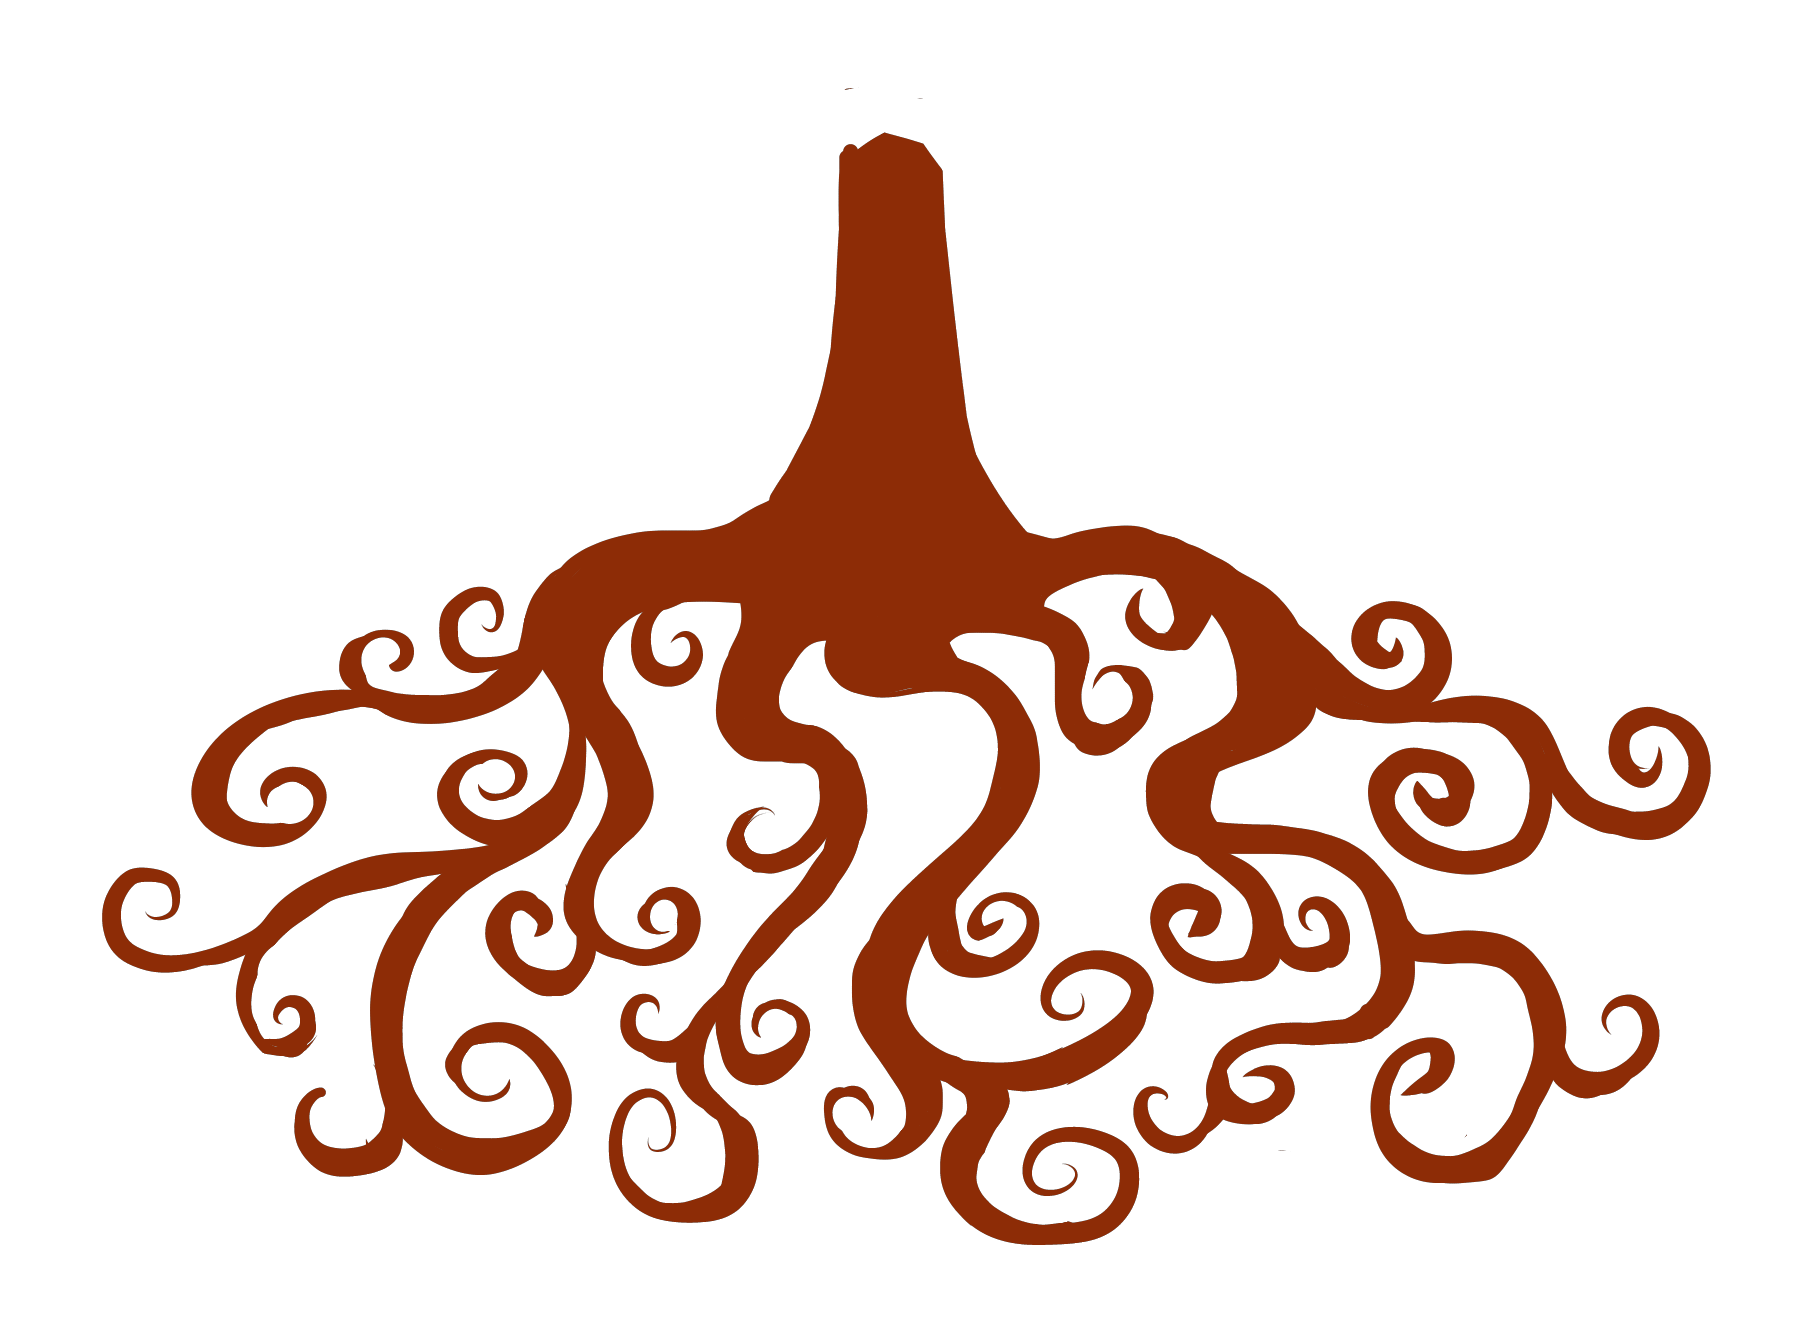
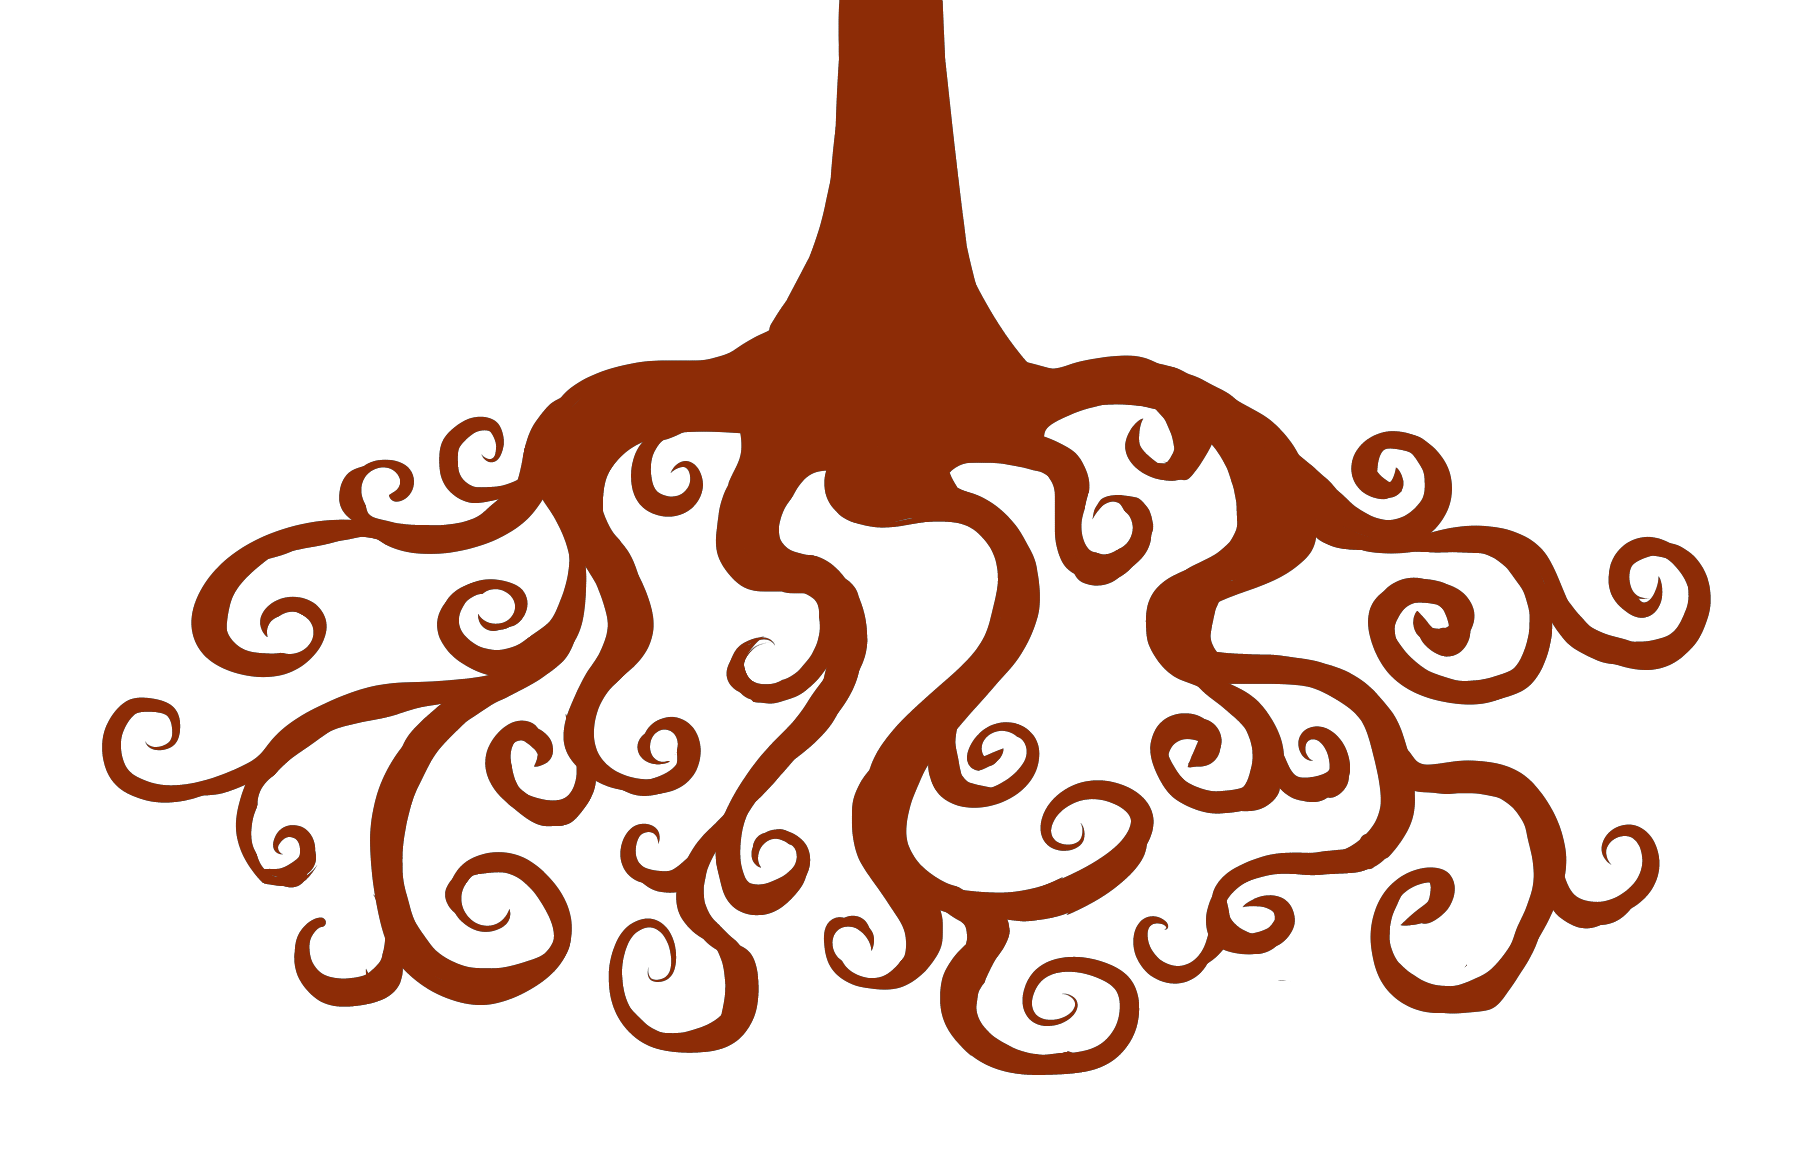
daniel i can't do css anymore noooo

Changed region(s): [[0.0309, 0.0, 0.9591, 0.9596]]

diff --git a/webserver/style.css b/webserver/style.css
@@ -28,6 +28,7 @@ h1 {
 } */
 
 .roots {
+	/* position: relative; */
 	display: block;
   	margin-left: auto;
   	margin-right: auto;
@@ -35,10 +36,18 @@ h1 {
 }
 
 .trunk {
+	position: relative;
+	left: 40.08%;
 	display: block;
-  	margin-left: 40%;
   	margin-right: auto;
   	width: 18%;
+}
+
+.crown {
+	position: relative;
+	display: block;
+	width: 33%;
+	left: 32.4%;
 }
 
 .finished {
@@ -46,6 +55,9 @@ h1 {
 }
 
 /* format subtasks */
+.task {
+	position: absolute;
+}
 .subtask input {
 	display: none;
 }

diff --git a/webserver/build_tree.php b/webserver/build_tree.php
@@ -25,6 +25,7 @@ function buildTree($tasks) {
 	$direction_index = 0;
 
 	echo "<ul id='tree'>";
+	echo "<img src='rootskeleton1.png' class='roots' alt='tree roots <3'>";
 	foreach($tasks as $task => $subtasks) {
 
 		// alternate directions
@@ -33,12 +34,14 @@ function buildTree($tasks) {
 
 		buildBranch($task, $subtasks, $direction);
 	}
+	echo "<img src='crownskeleton1.png' class='crown' alt='tree crown'";
 	echo "</ul>";
 	newTaskForm();
 }
 
 function buildBranch($task, $subtasks, $direction) {
-	echo "<li class='$direction'>$task";
+	echo "<img src='trunkskeleton1.png' class='trunk' alt='tree roots <3'>";
+	echo "<li class='$direction task'>$task";
 	echo "<ul class='branch'>";
 	foreach($subtasks as $subtask => $finished) {
 		buildLeaf($task, $subtask, $finished);
@@ -58,7 +61,7 @@ function buildLeaf($task, $subtask, $finished) {
 	echo $subtask;
 	newDeleteSubtaskForm($task, $subtask);
 	newFinishSubtaskForm($task, $subtask);
-	buildFoodBlurb('portland', $task, $subtask);
+	//buildFoodBlurb('portland', $task, $subtask);
 
 	echo "</li>";
 }

diff --git a/webserver/index.php b/webserver/index.php
@@ -10,8 +10,6 @@ buildTree($tasks);
 
 newCityForm();
 
-echo "<img src='trunkskeleton1.png' class='trunk' alt='tree roots <3'>";
-echo "<img src='rootskeleton1.png' class='roots' alt='tree roots <3'>";
 ?>
 
 <script src="script.js"></script>
